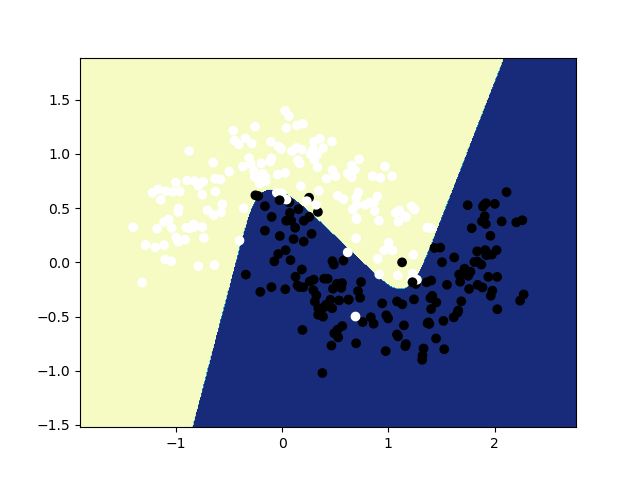
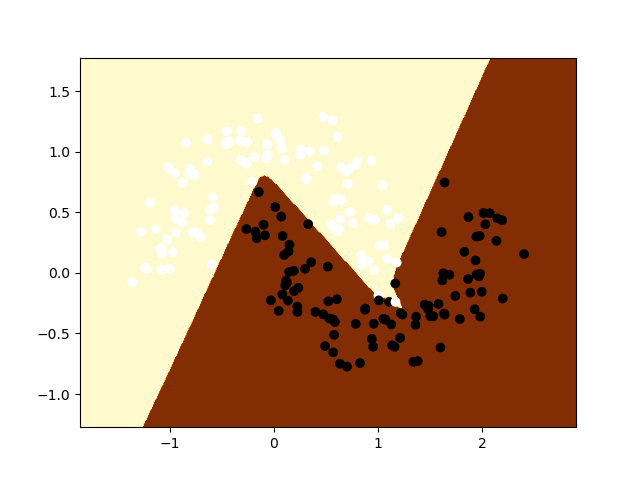
finish binary classification

diff --git a/SimpleNetWork/BinaryClassificationNetWork.py b/SimpleNetWork/BinaryClassificationNetWork.py
@@ -11,8 +11,8 @@ import torch.nn.functional as F
 #统计分数
 from sklearn.metrics import accuracy_score
 
-#生成300个点的数据集，返回的结果是一个包含两个元素的元组 (X, y),X是点，y是x的分类
-X, y =  sklearn.datasets.make_moons(300, noise=0.2)
+#生成200个点的数据集，返回的结果是一个包含两个元素的元组 (X, y),X是点，y是x的分类
+X, y =  sklearn.datasets.make_moons(200, noise = 0.2)
 
 save_path = "/data/wangweicheng/ModelLearning/SimpleNetWork"
 plt.scatter(X[:,0],X[:,1],s=40,c=y,cmap=plt.cm.Spectral)
@@ -56,7 +56,7 @@ class BinaryClassifier(nn.Module):
 
 
 #初始化模型
-model = BinaryClassifier(2, 3, 2)
+model = BinaryClassifier(2, 5, 2)
 #定义损失函数，用于衡量模型预测结果与真实标签之间的差异。
 loss_criterion = nn.CrossEntropyLoss()
 #定义优化器，优化器（optimizer）用于更新模型的参数，以最小化损失函数并提高模型的性能
@@ -64,7 +64,7 @@ loss_criterion = nn.CrossEntropyLoss()
 optimizer = torch.optim.Adam(model.parameters(), lr = 0.01)
 
 #训练的次数
-epochs = 5000
+epochs = 10000
 #存储loss
 losses = []
 
@@ -75,7 +75,7 @@ for i in range(epochs):
     loss = loss_criterion(y_pred, y)
     #添加当前的损失到losses中
     losses.append(loss.item())
-    #清楚之前的梯度
+    #清除之前的梯度
     optimizer.zero_grad()
     #反向传播更新参数
     loss.backward()
@@ -106,7 +106,7 @@ def plot_decision_boundary(pred_func,X,y):
     # 将预测结果 Z 重塑为与点网格 xx 相同的形状
     Z = Z.reshape(xx.shape)
     # 画出图像，绘制等高线图的代码
-    plt.contourf(xx, yy, Z, cmap=plt.cm.YlGnBu)
+    plt.contourf(xx, yy, Z, cmap=plt.cm.YlOrBr)
     plt.scatter(X[:, 0], X[:, 1], c=y, cmap=plt.cm.binary)
     plt.savefig(f'{save_path}/dataout.png')
     
